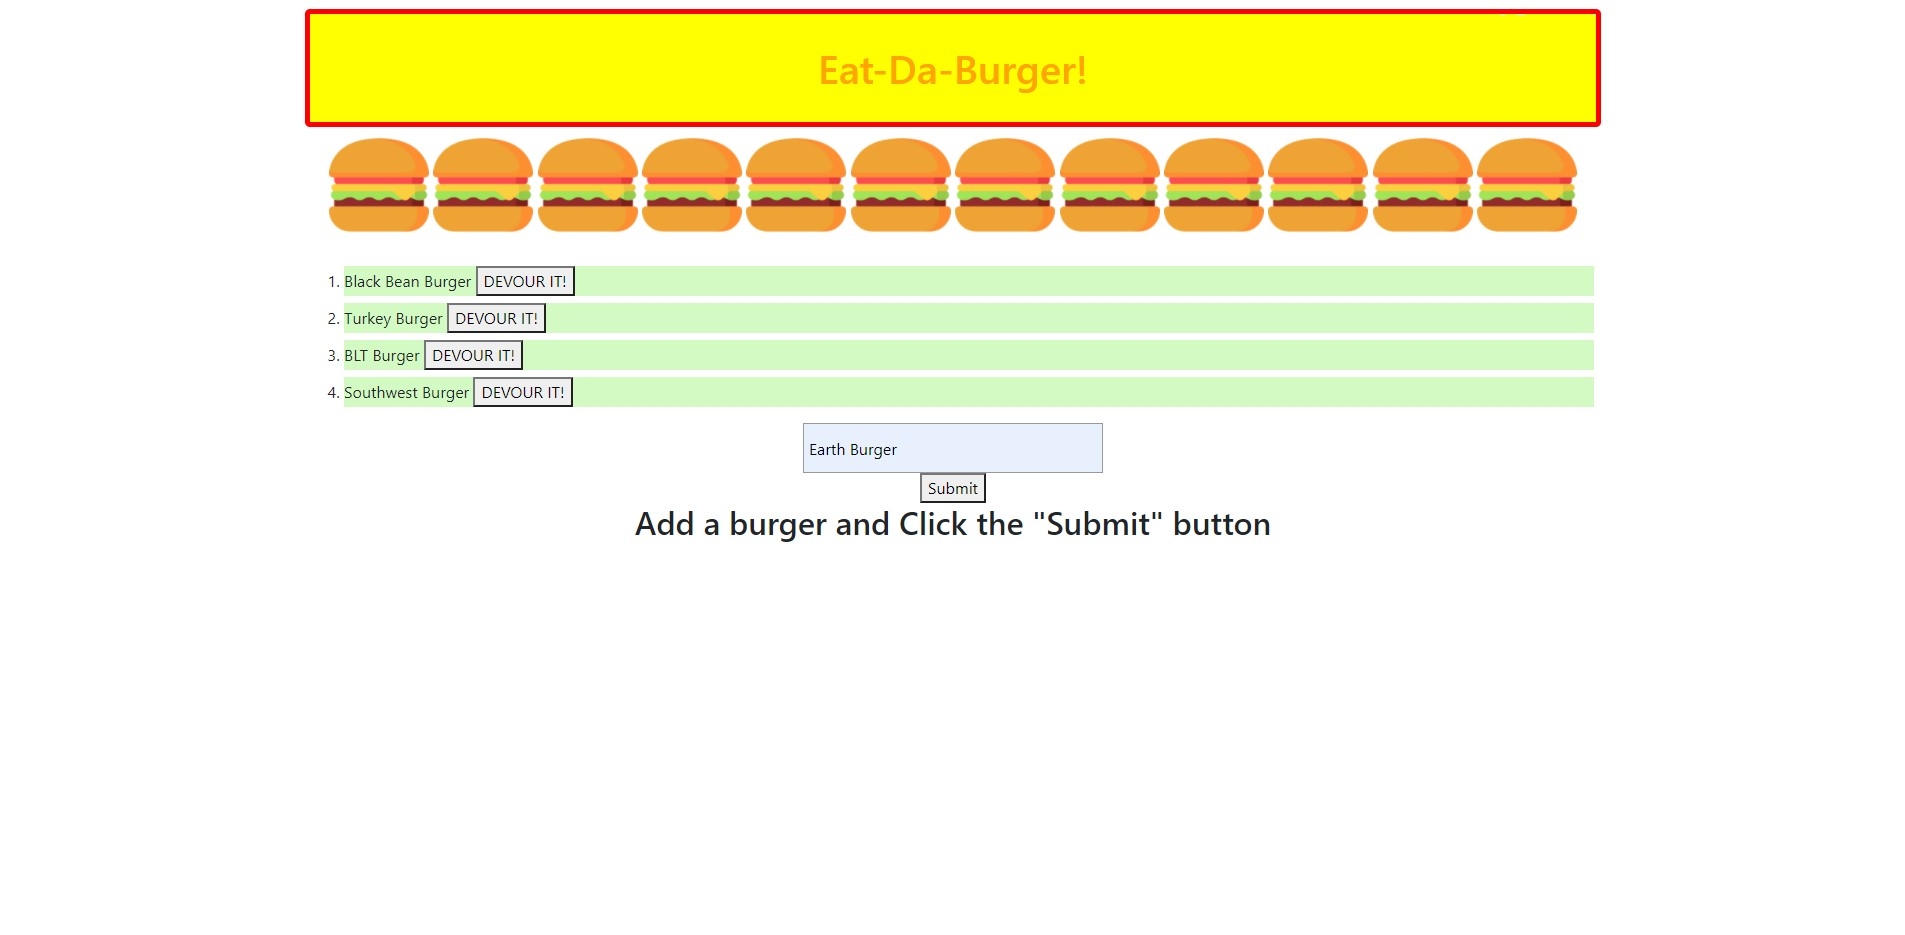
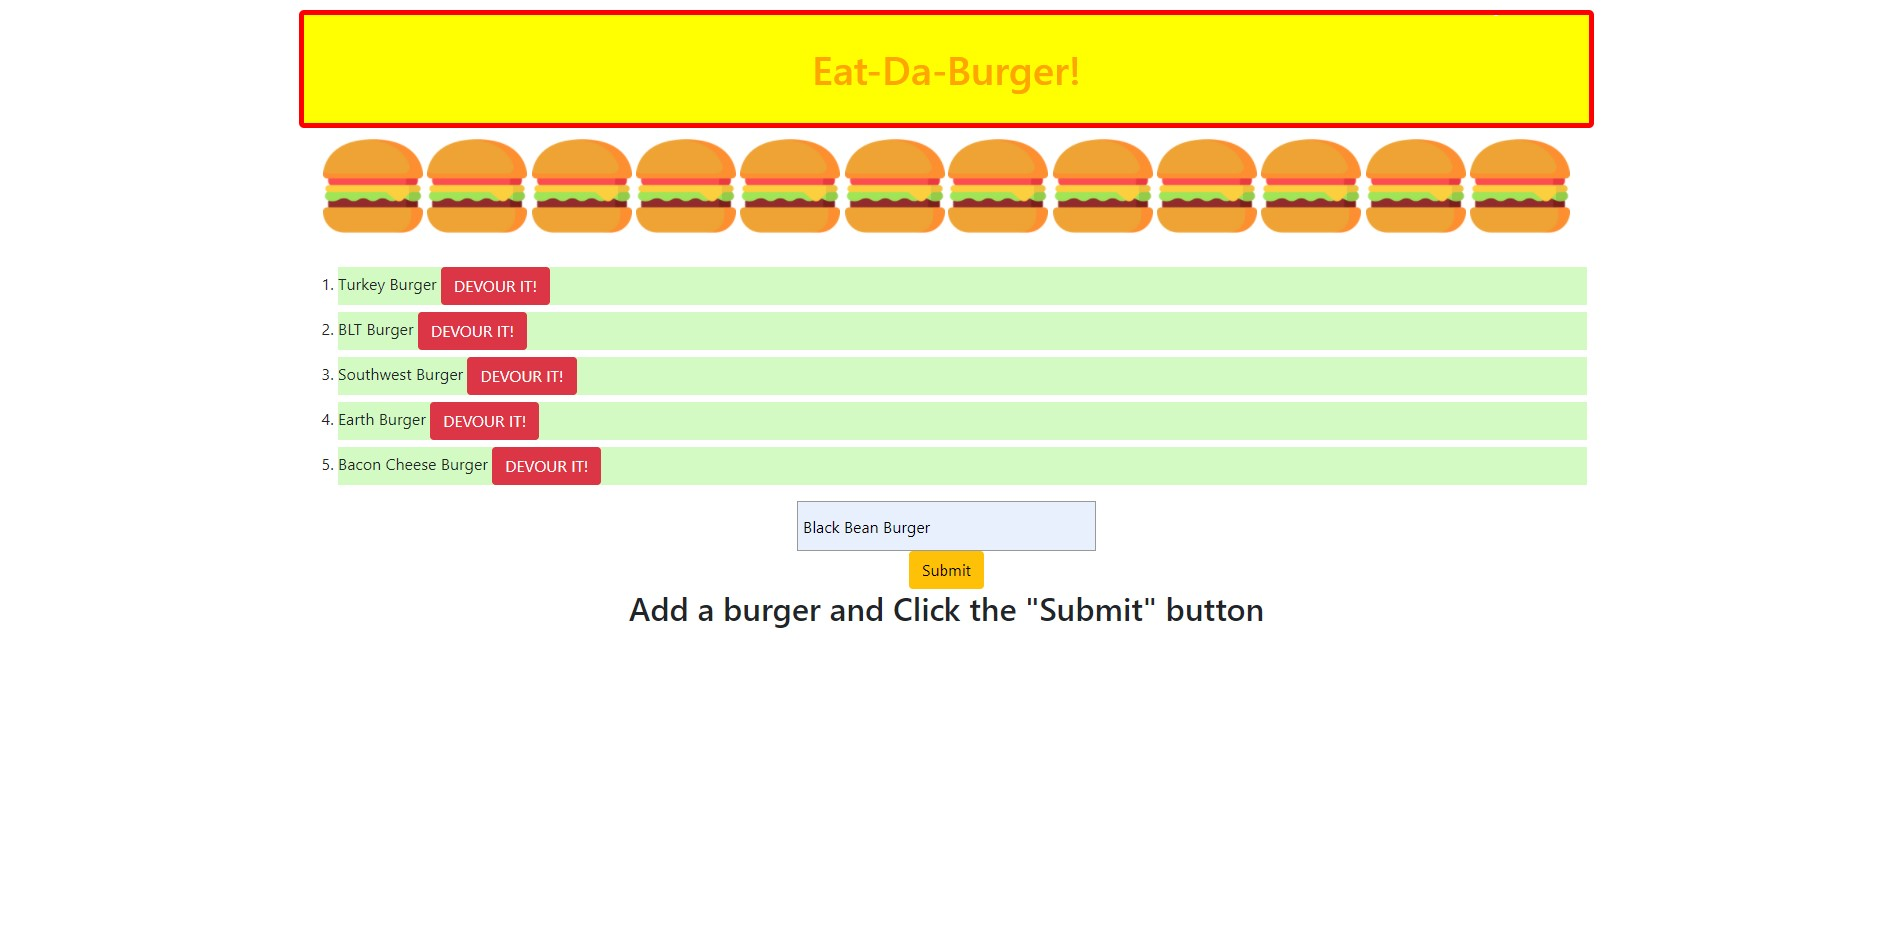
updated web-page styling

Changed region(s): [[0.1557, 0.2791, 0.8406, 0.6824], [0.1557, 0.0, 0.8406, 0.2481], [0.4359, 0.062, 0.5604, 0.093]]

diff --git a/public/assets/css/style.css b/public/assets/css/style.css
@@ -27,3 +27,7 @@ input {
     border: 1px solid #999999;
     padding: 5px;
 }
+
+.btn {
+    margin: 5px;
+}
